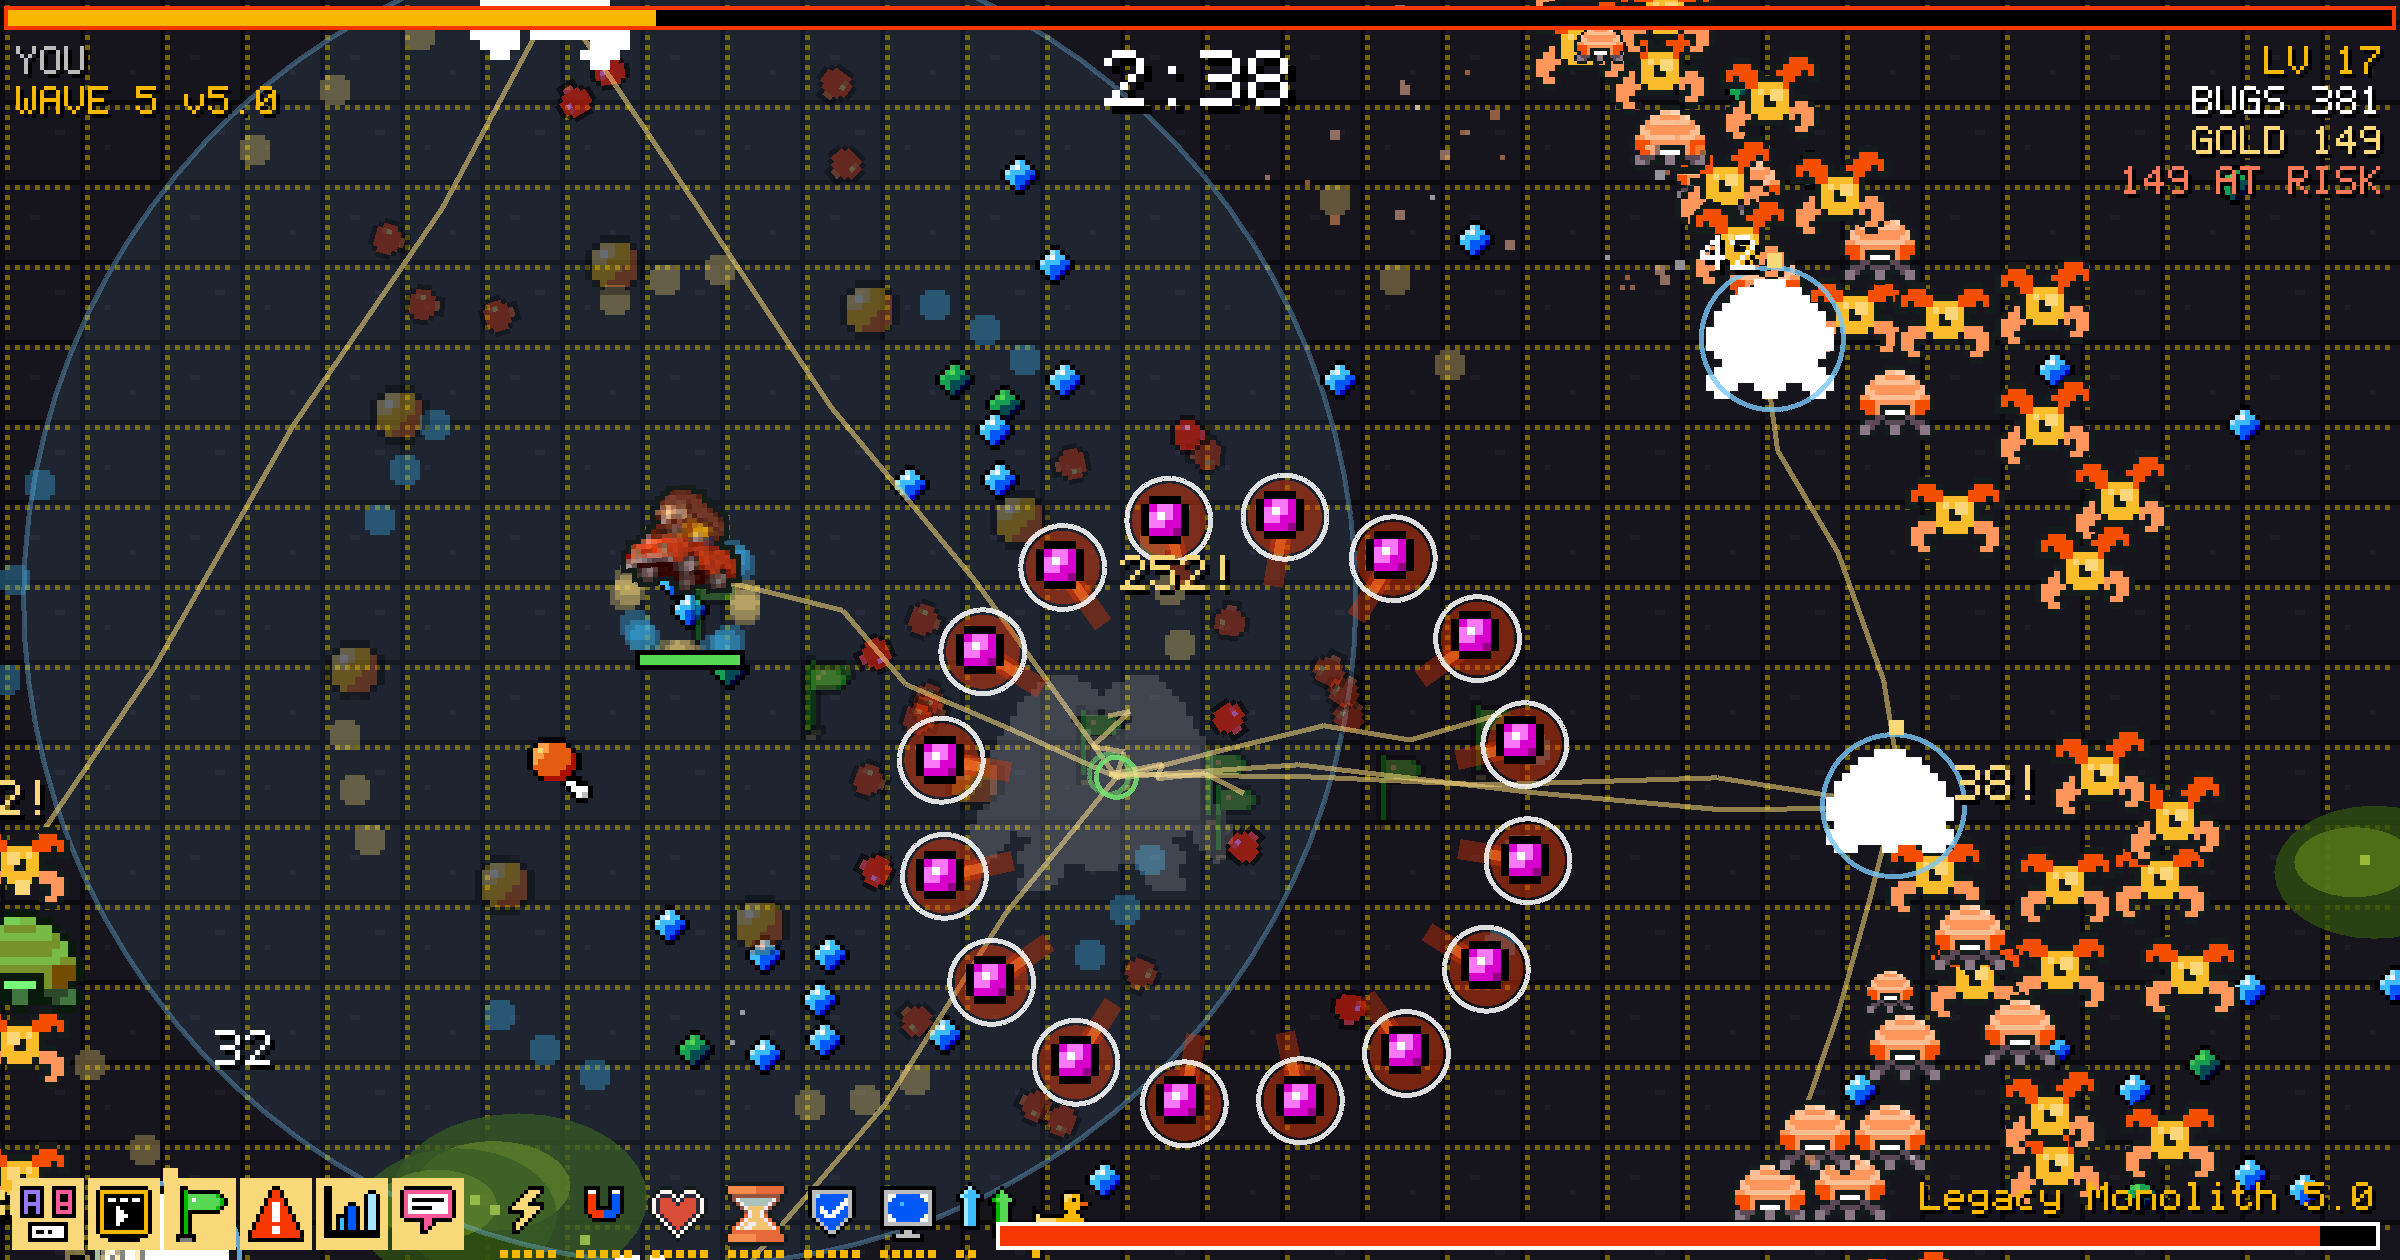
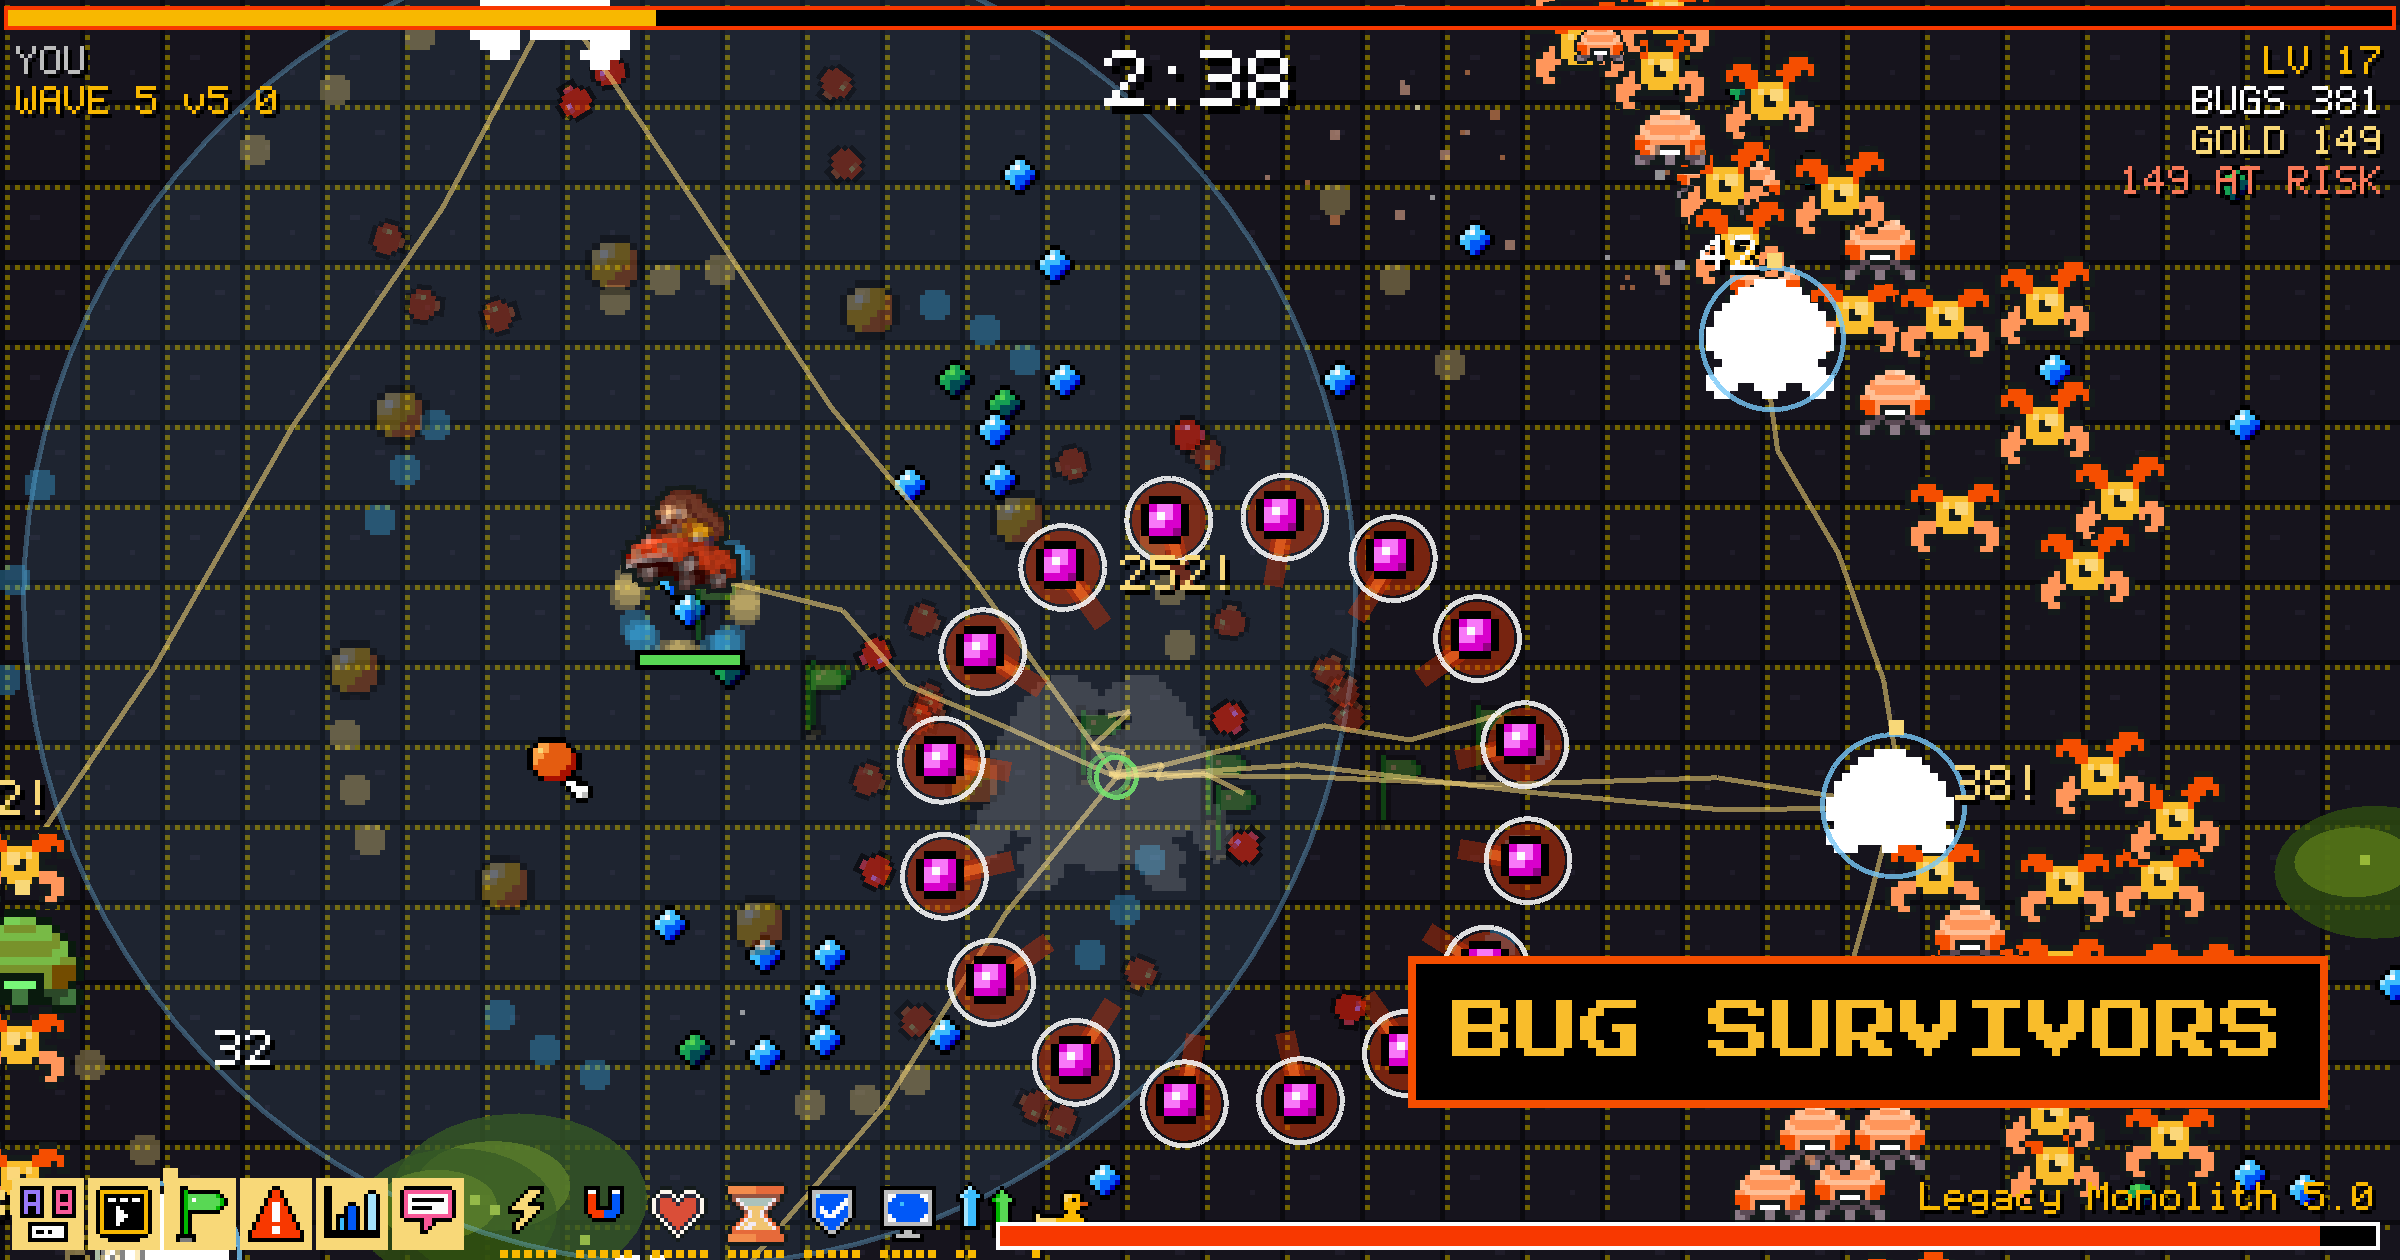
Put the game's name on the README header and share image
Bottom right, in the guide's pixel font, in a box styled like the game's own
banners. The raw screenshot is kept as docs/gameplay.png so the title can be
changed without replaying the game.

Changed region(s): [[0.5625, 0.7429, 0.9688, 0.8976]]

diff --git a/game/bug-survivors/tools/make_icons.py b/game/bug-survivors/tools/make_icons.py
@@ -1,13 +1,14 @@
-"""Favicon, touch icon and social-share image, made from the default art and a gameplay screenshot.
+"""Favicon, touch icon and the share image, made from the default art and a gameplay screenshot.
 
-    uv run --with pillow python game/bug-survivors/tools/make_icons.py docs/header.png
+    uv run --with pillow --with fonttools --with brotli python game/bug-survivors/tools/make_icons.py [docs/gameplay.png]
 
-The screenshot (2400x1260) comes from scripts/screenshot.py. It is cropped to the 1.91:1 shape link previews use and
-written as og.png; docs/header.png is the same picture at full size for the README.
+docs/gameplay.png is a raw frame from scripts/screenshot.py (2400x1260). It gets the game's name in the bottom right corner, in the
+guide's pixel font, and is written twice: docs/header.png for the README, and og.png (1200x630, the shape link previews use) for the site.
 """
+import io
 import sys
 from pathlib import Path
-from PIL import Image
+from PIL import Image, ImageDraw, ImageFont
 
 KIT = Path(__file__).resolve().parent.parent
 OUT = KIT / "public"
@@ -25,11 +26,40 @@ def icon(size: int, pad: int, opaque: bool) -> Image.Image:
 icon(48, 0, False).save(OUT / "favicon.png", optimize=True)
 icon(180, 18, True).convert("RGB").save(OUT / "apple-touch-icon.png", optimize=True)
 
-if len(sys.argv) > 1:
-    shot = Image.open(sys.argv[1]).convert("RGB")
-    w, h = shot.size
-    ratio = 1200 / 630
-    cw, ch = (w, round(w / ratio)) if w / h < ratio else (round(h * ratio), h)
-    left, top = (w - cw) // 2, (h - ch) // 2
-    shot.crop((left, top, left + cw, top + ch)).resize((1200, 630), Image.LANCZOS).save(OUT / "og.png", optimize=True)
-print("icons written to", OUT)
+ROOT = KIT.parent.parent
+FONT = OUT / "fonts/press-start-2p-400.woff2"  # the guide's font; OFL, see fonts/README.md
+TITLE, SIZE, MARGIN, PAD, BORDER = "BUG SURVIVORS", 64, 72, 36, 8  # Press Start 2P is drawn on an 8px grid: keep the size a multiple of 8
+GOLD, ORANGE, BLACK = (249, 189, 43), (245, 78, 0), (0, 0, 0)  # the game's own banner: black box, orange frame, gold text
+ABOVE_HUD = 80  # keeps the box clear of the boss bar along the bottom edge
+
+
+def titled(shot: Image.Image) -> Image.Image:
+    from fontTools.ttLib import TTFont  # Pillow cannot read woff2: convert in memory
+
+    ttf = io.BytesIO()
+    f = TTFont(str(FONT))
+    f.flavor = None
+    f.save(ttf)
+    ttf.seek(0)
+    font = ImageFont.truetype(ttf, SIZE)
+    draw = ImageDraw.Draw(shot)
+    draw.fontmode = "1"  # no anti-aliasing: it is a pixel font
+    w = round(draw.textlength(TITLE, font=font))
+    box_w, box_h = w + 2 * (PAD + BORDER), SIZE + 2 * (PAD + BORDER)
+    x1, y1 = shot.width - MARGIN, shot.height - MARGIN - ABOVE_HUD
+    x0, y0 = x1 - box_w, y1 - box_h
+    draw.rectangle((x0, y0, x1 - 1, y1 - 1), fill=ORANGE)
+    draw.rectangle((x0 + BORDER, y0 + BORDER, x1 - 1 - BORDER, y1 - 1 - BORDER), fill=BLACK)
+    draw.text((x0 + BORDER + PAD, y0 + BORDER + PAD), TITLE, font=font, fill=GOLD)
+    return shot
+
+
+shot_path = Path(sys.argv[1]) if len(sys.argv) > 1 else ROOT / "docs/gameplay.png"
+shot = titled(Image.open(shot_path).convert("RGB"))
+shot.save(ROOT / "docs/header.png", optimize=True)
+ratio = 1200 / 630
+w, h = shot.size
+cw, ch = (w, round(w / ratio)) if w / h < ratio else (round(h * ratio), h)
+left, top = (w - cw) // 2, (h - ch) // 2
+shot.crop((left, top, left + cw, top + ch)).resize((1200, 630), Image.LANCZOS).save(OUT / "og.png", optimize=True)
+print("icons and share image written")

diff --git a/scripts/screenshot.py b/scripts/screenshot.py
@@ -2,7 +2,8 @@
 
     npm run build && (cd public && python3 -m http.server 8761) &
     uv run --with playwright python scripts/screenshot.py http://localhost:8761/ /tmp/frames
-    uv run --with pillow python game/bug-survivors/tools/make_icons.py /tmp/frames/frame5.png   # pick the frame you like; also writes og.png
+    cp /tmp/frames/frame5.png docs/gameplay.png    # pick the frame you like
+    uv run --with pillow --with fonttools --with brotli python game/bug-survivors/tools/make_icons.py   # adds the title; writes docs/header.png and og.png
 
 The game's debug hooks (window.__game.debug) maxes out the weapons and spawns the boss and a swarm. Achievement and
 level toasts crowd the top of the screen for a while after that, so it waits them out, then takes twelve frames in a row:
